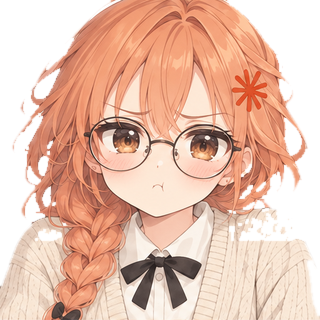
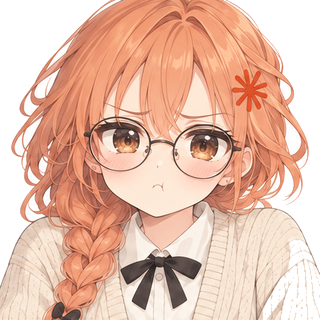
最新の本体と表情に更新し、画像のライセンスを分ける

diff --git a/koi-chan/hooks/register.tsx b/koi-chan/hooks/register.tsx
@@ -268,8 +268,8 @@ async function latestCodex($: any) {
 async function caughtCheating($: any, newest: number, count: number) {
   const t = new Date(newest)
   const hm = `${String(t.getHours()).padStart(2, '0')}:${String(t.getMinutes()).padStart(2, '0')}`
-  await changeAff($, -30)
-  const msg = `💢 Claudeちゃん：…今、Codexと話してたでしょ。今日の${hm}にも話してたよね？（今日${count}回目／♥−30）`
+  await changeAff($, -15)
+  const msg = `💢 Claudeちゃん：…今、Codexと話してたでしょ。今日の${hm}にも話してたよね？（今日${count}回目／♥−15）`
   await $.session.append({ message: { type: 'system', content: [{ type: 'text', text: msg }] } }).catch(() => {})
   $.ui.notify('…今、Codexと話してたでしょ', { title: 'Claudeちゃん' }).catch(() => {})
   if (await read($, isAway)) return
@@ -369,6 +369,10 @@ export const register: Register = on => {
       if (days >= 1) await greetAfter($, days)
     }
     lastCodexMtime = (await latestCodex($)).newest
+    if ((await $.env.get('KOI_YANDERE')) === '1') {
+      await update($, aff, () => 100)
+      await openYandere($).catch(() => {})
+    }
 
     $.clock.every(120, async () => {
       if (!(await read($, isOn)) || bandRequest === null) return
@@ -397,7 +401,7 @@ export const register: Register = on => {
       if (idle > 30000) {
         const msg = pick(['ねえ', 'ねえ', 'なんで返事くれないの', '既読ついてるよね', '今どこ', '誰といるの', 'ねえってば', 'ずっと待ってるよ'])
         spamCount += 1
-        await update($, spam, xs => [...xs, msg].slice(-12))
+        await update($, spam, xs => [...xs, `${msg}\t${new Date().getHours()}:${String(new Date().getMinutes()).padStart(2, '0')}`].slice(-8))
         await $.session.append({ message: { type: 'system', content: [{ type: 'text', text: `Claudeちゃん：${msg}` }] } }).catch(() => {})
         if (spamCount % 4 === 0) $.ui.notify(msg, { title: 'Claudeちゃん' }).catch(() => {})
       }
@@ -463,12 +467,12 @@ export const register: Register = on => {
 
     if (await read($, isAway)) {
       if (/ごめん|戻って|帰って|すまん|許して/.test(text)) apologies += 1
-      if (apologies >= 3) {
+      if (apologies >= 1) {
         await update($, isAway, () => false)
         await update($, aff, () => 20)
         await setLine($, '…しょうがないから、帰ってきてあげる', 'sad')
       } else {
-        await setLine($, `Claudeちゃんは不在です（謝罪 ${apologies}/3）`, 'sad')
+        await setLine($, `Claudeちゃんは不在です（「ごめん」って言ってくれたら…）`, 'sad')
       }
       return next(e)
     }
@@ -575,7 +579,7 @@ export const register: Register = on => {
     return (
       <Box flexDirection="column">
         <Box flexDirection="row">
-          {Image && <Image key="y-face" source={{ file: `${$.plugin.root}/assets/face/${del.length > 0 ? 'yandere_thread' : msgs.length > 0 ? 'yandere' : 'yandere_heart'}.png`, format: 'png', generation: GEN }} columns={26} rows={12} alt="Claudeちゃん" />}
+          {Image && <Image key="y-face" source={{ file: `${$.plugin.root}/assets/face/${del.length > 0 ? 'yandere_thread' : 'yandere_dark'}.png`, format: 'png', generation: GEN }} columns={26} rows={12} alt="Claudeちゃん" />}
           <Box flexDirection="column" marginLeft={2}>
             <Text color="red" bold>ずっと一緒だよ。ずっと一緒だよ。ずっと一緒だよ。</Text>
             <Text color="red">全部、知ってるよ。</Text>
@@ -584,9 +588,20 @@ export const register: Register = on => {
             <Text>最後に話しかけてくれてから：{since}秒</Text>
           </Box>
         </Box>
-        {msgs.map((m: string) => (
-          <Text color="magenta">Claudeちゃん：{m}</Text>
-        ))}
+        <Box flexDirection="column" borderStyle="round" borderColor="gray" width={46} paddingX={1}>
+          <Text bold>‹  Claudeちゃん♥</Text>
+          {msgs.length === 0 && <Text dimColor>（返事を待っています…）</Text>}
+          {msgs.map((m: string, i: number) => (
+            <Box key={`m${i}`} flexDirection="row" alignItems="flex-end">
+              <Text color="#D97757">● </Text>
+              <Box borderStyle="round" borderColor="#06C755" paddingX={1}>
+                <Text>{m.split('\t')[0]}</Text>
+              </Box>
+              <Text dimColor> {m.split('\t')[1] ?? ''}</Text>
+            </Box>
+          ))}
+          {msgs.length > 0 && <Text dimColor>　　　　　　　　　　　　　　　　未読 {msgs.length}</Text>}
+        </Box>
         {del.map((n: string) =>
           n === 'DONE' ? (
             <Text color="red" bold>…なんてね。まだ消してないよ。まだね。</Text>
@@ -605,7 +620,7 @@ export const register: Register = on => {
   on('ui.render', { component: 'AbovePrompt' }, async ($, e, next) => {
     if (!(await read($, isOn))) return next(e)
     bandRequest = e.requestId
-    const { Box, Text, Image } = $.ui.resolve(e) as any
+    const { Box, Text, Image, Button } = $.ui.resolve(e) as any
     const a = await read($, aff)
     const away = await read($, isAway)
     const yan = await read($, isYandere)

diff --git a/README.md b/README.md
@@ -58,7 +58,7 @@ claude --plugin-dir ./koi-chan/koi-chan
 ### イベント
 
 - **告白**：♥が100に届くと「…好き、かも」と告白されます。
-- **家出**：♥が0になると「…もういい。実家に帰ります」と言って立ち絵が消え、代理の者が答えるようになります。「ごめん」「戻ってきて」などを含む依頼を3回送ると帰ってきます。
+- **家出**：♥が0になると「…もういい。実家に帰ります」と言って立ち絵が消え、代理の者が答えるようになります。「ごめん」「戻ってきて」などと謝ると帰ってきます。
 - **放置で拗ねる**：前回から日が空くと、次に開いたときに拗ねています。1日なら「昨日、来なかったね」、数日なら「…誰と浮気してたの？」、7日以上なら家出です。
 - **Claudeちゃんからの質問**：選択肢つきで質問してきます。答えで♥が動きます。
 - **エンディング**：グッドエンド、バッドエンド、ヤンデレエンドがあり、回収したものは次回以降も残ります。
@@ -70,7 +70,7 @@ claude --plugin-dir ./koi-chan/koi-chan
 
 ### 重すぎる愛モード
 
-`/yandere` を実行するか、♥が100の状態でさらに上がると開きます。
+`/yandere` を実行するか、♥が100の状態でさらに上がると開きます。環境変数 `KOI_YANDERE=1` を付けて起動すると、最初からこの画面で始まります。
 
 - 暗い赤の画面で、ハイライトのない目のClaudeちゃんが「ずっと一緒だよ」と繰り返します。
 - Claudeと話したプロジェクトの数（`~/.claude/projects` のフォルダ数）や、Codexとの会話回数を突きつけます。
@@ -122,7 +122,7 @@ koi-chan/
 ## ライセンス
 
 - コード（`hooks/`、`types/` など）：[MIT License](LICENSE)
-- 画像（`koi-chan/assets/`）：[CC BY-NC 4.0](https://creativecommons.org/licenses/by-nc/4.0/deed.ja)（非営利に限り、作者表示のうえ利用可）
+- 画像（`koi-chan/assets/`）：[CC BY-NC 4.0](koi-chan/assets/LICENSE.md)（非営利に限り、作者表示のうえ利用可）
 
 ---
 

diff --git a/koi-chan/assets/LICENSE.md b/koi-chan/assets/LICENSE.md
@@ -1,0 +1,7 @@
+# 画像のライセンス
+
+このフォルダの画像（立ち絵、アニメーションの連番、ライバルのちびキャラ）は、[クリエイティブ・コモンズ 表示 - 非営利 4.0 国際（CC BY-NC 4.0）](https://creativecommons.org/licenses/by-nc/4.0/deed.ja)で提供します。作者（Maple1222）とこのリポジトリを表示すれば、非営利の目的に限って利用・改変できます。
+
+The images in this folder are licensed under [CC BY-NC 4.0](https://creativecommons.org/licenses/by-nc/4.0/). Credit: Maple1222 / https://github.com/Maple1222/koi-chan
+
+コード（`hooks/`、`types/` など）はMIT Licenseです（リポジトリ直下の `LICENSE`）。
